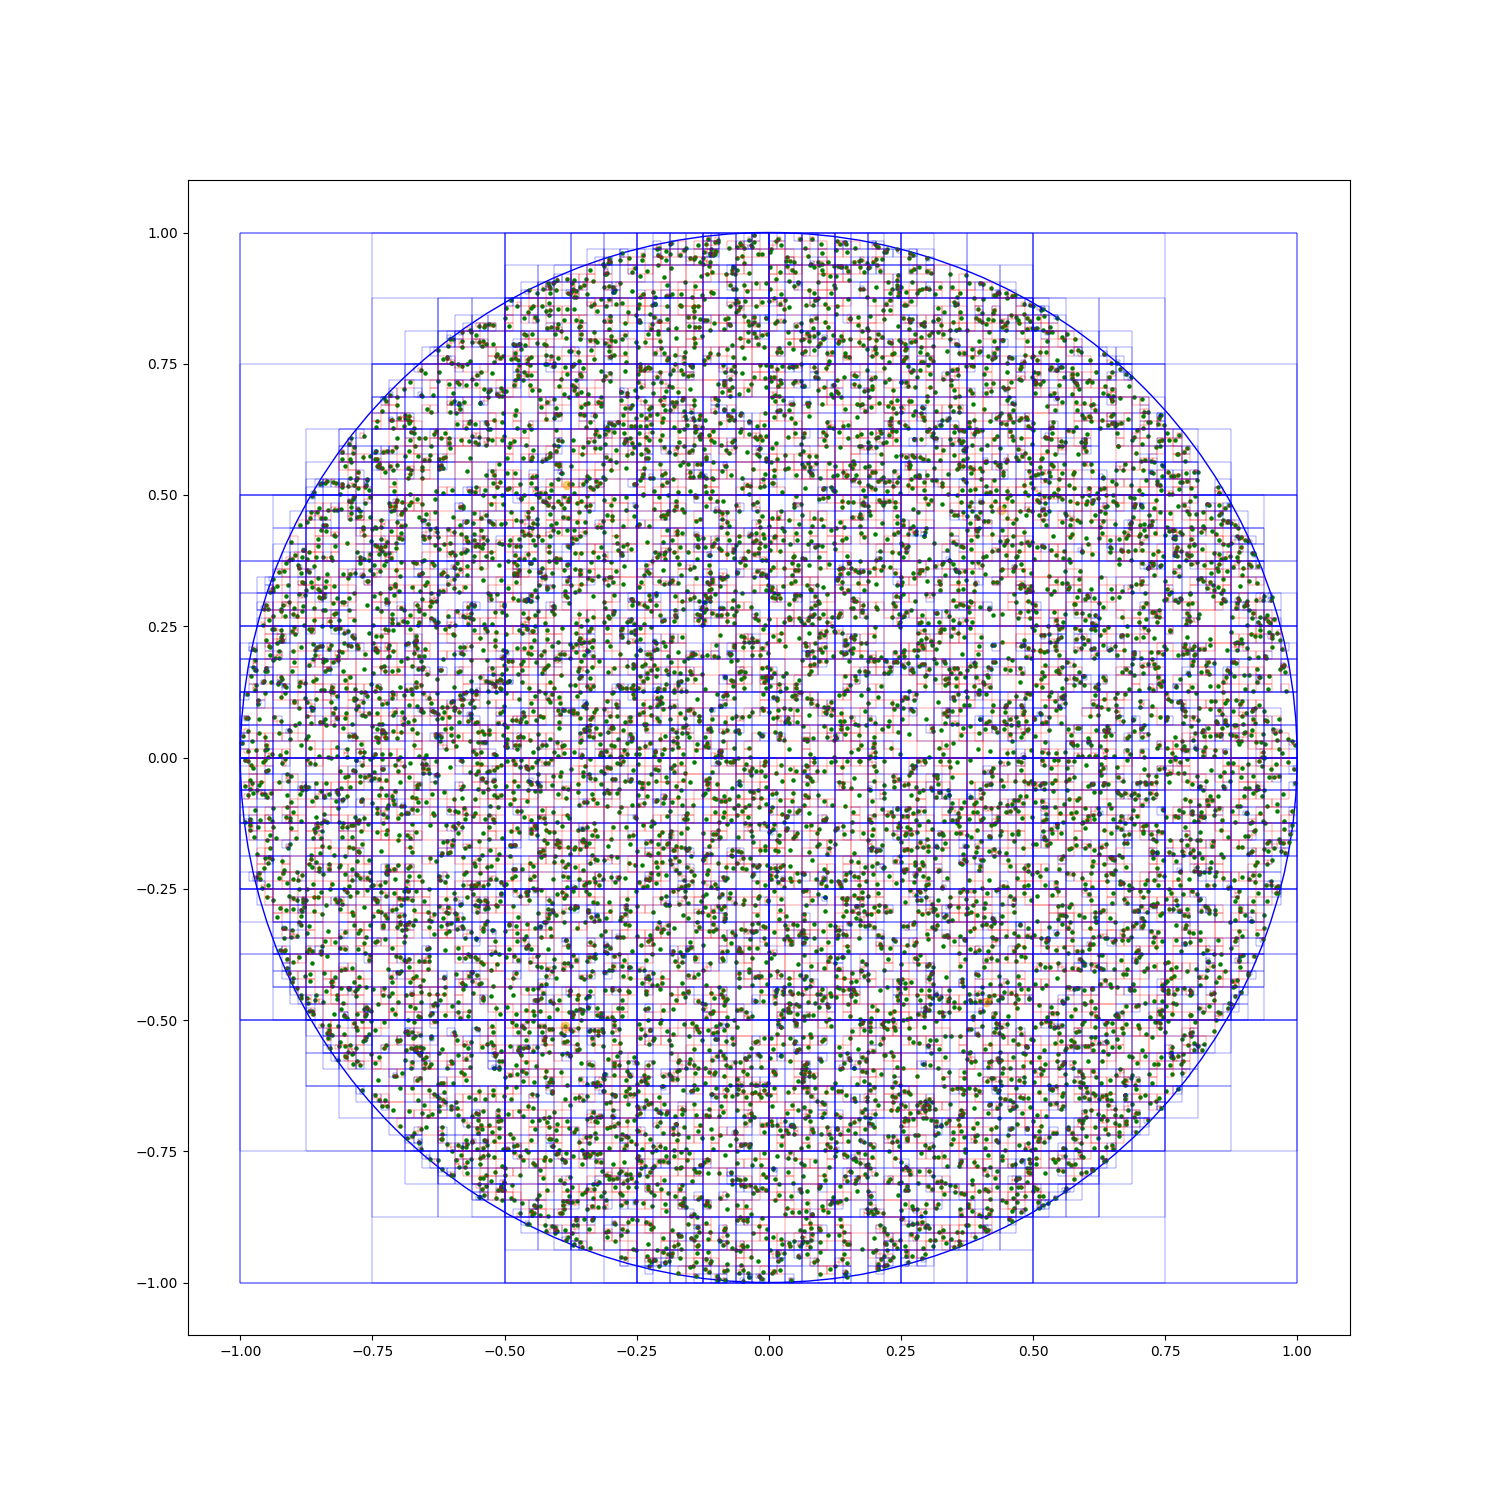
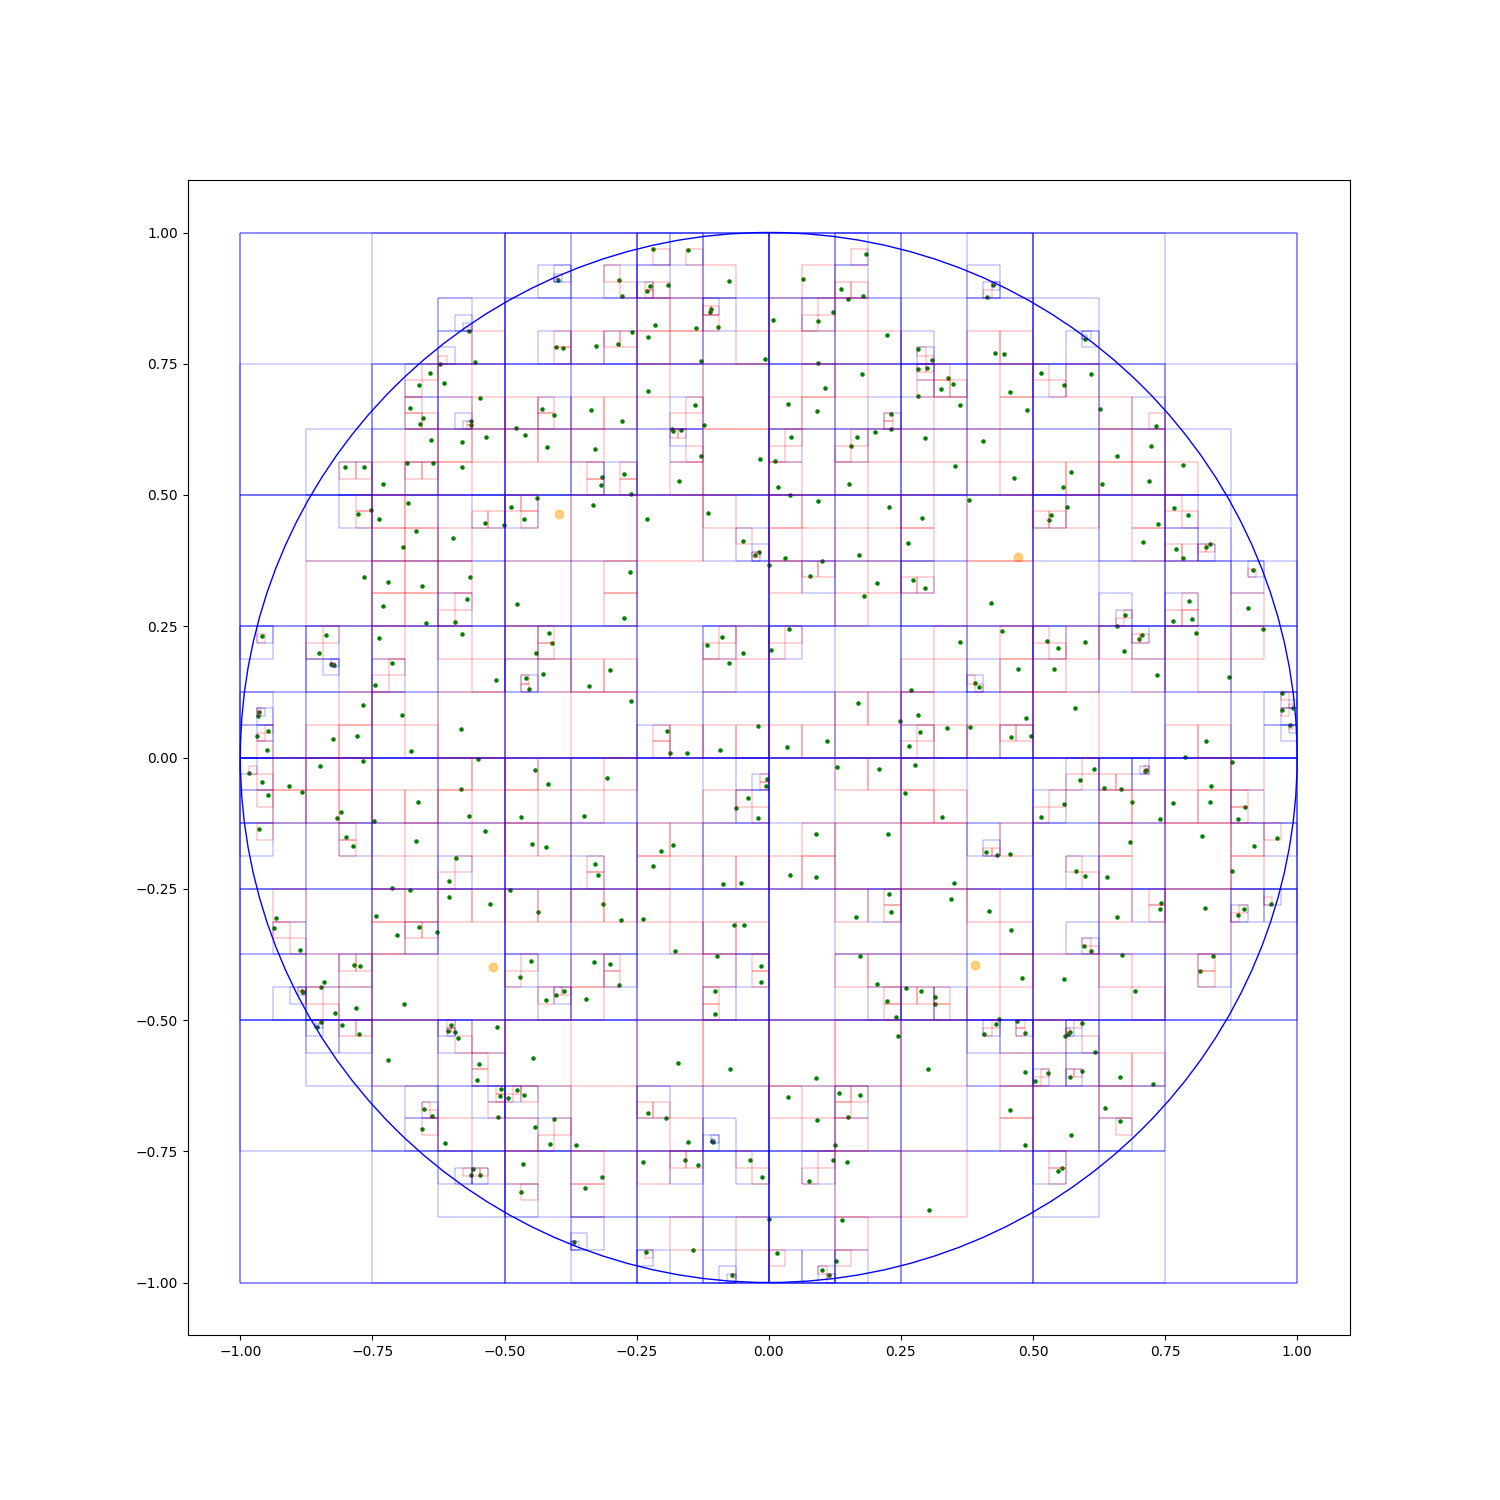
DFS step of Barnes-Hut approximation

Changed region(s): [[0.1533, 0.1533, 0.8893, 0.8587]]

diff --git a/infinity_quad_tree.hpp b/infinity_quad_tree.hpp
@@ -2,6 +2,7 @@
 #include "cell.hpp"
 #include "point.hpp"
 #include "math_utils.hpp"
+#include "centre_of_mass.hpp"
 #include <stddef.h>
 #include <vector>
 #include <algorithm>
@@ -79,6 +80,26 @@ private:
         double d3 = max_bounds.x*max_bounds.x + max_bounds.y*max_bounds.y;
         double d4 = min_bounds.x*min_bounds.x + max_bounds.y*max_bounds.y;
         return d1 < 1.0 && d2 < 1.0 && d3 < 1.0 && d4 < 1.0;
+    }
+
+    void approximate_centers_of_mass(const Point& target, size_t cell_idx, double theta_sq, std::vector<CenterOfMass>& combined_results) {
+        auto& current_cell = _nodes[cell_idx];
+
+        double distance_to_target = target.distance_to_point_poincare(_nodes[cell_idx].barycenter);
+        double distance_squared = distance_to_target * distance_to_target;
+
+        // Check the stop condition
+        if (_nodes[cell_idx].is_leaf || (current_cell.max_distance_within_squared / distance_squared < theta_sq)) {
+            combined_results.emplace_back(CenterOfMass{_nodes[cell_idx].barycenter, _nodes[cell_idx].cumulative_size, distance_squared});
+            return;
+        }
+        
+        // If stop condition wasn't triggered - go deeper and combine results
+        for(int i = 0; i < 4; ++i) {
+            if (_nodes[cell_idx].children_idx[i] != 0) {
+                approximate_centers_of_mass(target, _nodes[cell_idx].children_idx[i], theta_sq, combined_results);
+            }
+        }
     }
 
     std::vector<Cell> _nodes;

diff --git a/cell.hpp b/cell.hpp
@@ -15,11 +15,12 @@ struct Cell{
     Point min_bounds;
     Point max_bounds;
 
+    double max_distance_within_squared;
+
     Point barycenter;
     double lorentz_factor;
 
-    Cell(
-        size_t parent_idx_, size_t depth_, const Point& min_bounds_, const Point& max_bounds_) : 
+    Cell(size_t parent_idx_, size_t depth_, const Point& min_bounds_, const Point& max_bounds_) : 
         parent_idx(parent_idx_), 
         children_idx{{0, 0, 0, 0}}, 
         is_leaf(false), 
@@ -29,6 +30,21 @@ struct Cell{
         min_bounds{min_bounds_}, 
         max_bounds{max_bounds_},
         barycenter{(min_bounds_ + max_bounds_) / 2},
-        lorentz_factor(1)
-    {};
+        lorentz_factor(1) 
+        /*
+        a               max_bounds
+        min_bounds      b
+        
+        */
+
+        {
+            Point a = Point{min_bounds.x, max_bounds.y};
+            Point b = Point{min_bounds.y, max_bounds.x};
+            max_distance_within_squared = fmax(
+                fmax(a.distance_to_point_poincare(b), min_bounds.distance_to_point_poincare(max_bounds)),
+                fmax(fmax(a.distance_to_point_poincare(min_bounds), min_bounds.distance_to_point_poincare(b)),
+                fmax(a.distance_to_point_poincare(max_bounds), max_bounds.distance_to_point_poincare(b)))
+                );
+            max_distance_within_squared *= max_distance_within_squared;
+        }
 };

diff --git a/point.hpp b/point.hpp
@@ -5,15 +5,15 @@ struct Point {
     double x;
     double y;
 
-    double sq_norm() {
+    inline double sq_norm() const {
         return x * x + y * y;
     }
 
-    Point operator*(double a) {
+    Point operator*(double a) const {
         return Point{x * a, y * a};
     }
 
-    Point operator/(double a) {
+    Point operator/(double a) const {
         return Point{x / a, y / a};
     }
 
@@ -21,14 +21,26 @@ struct Point {
         return Point{x + b.x, y + b.y};
     }
 
-    Point to_klein() {
+    Point to_klein() const {
         double norm = sq_norm();
         return Point{hyperbolic_utils::poincare_to_klein(x, norm), hyperbolic_utils::poincare_to_klein(y, norm)};
     }
 
-    Point to_poincare() {
+    Point to_poincare() const {
         double norm = sq_norm();
         return Point{hyperbolic_utils::klein_to_poincare(x, norm), hyperbolic_utils::klein_to_poincare(y, norm)};
+    }
+
+    double distance_to_point_poincare(Point b) const {
+        if (std::fabs(x - b.x) <= M_UTILS_EPSILON && std::fabs(y - b.y) <= M_UTILS_EPSILON)
+            return 0;
+
+        double uv2 = ((x - b.x) * (x - b.x)) + ((y - b.y) * (y - b.y));
+        double u_sq = sq_norm();
+        double v_sq = b.sq_norm();
+        double result = std::acosh( 1. + 2. * uv2 / ( (1. - u_sq) * (1. - v_sq)));
+
+        return result;
     }
 };
 

diff --git a/math_utils.hpp b/math_utils.hpp
@@ -1,20 +1,23 @@
 #pragma once
 #include <cmath>
 
+#define M_UTILS_EPSILON 1e-5
+
 namespace hyperbolic_utils {
-    double sq_norm(const double& a, const double& b) {
+
+    inline double sq_norm(const double& a, const double& b) {
         return a * a + b * b;
     }
 
-    double poincare_to_klein(const double& a, const double& sq_n) {
+    inline double poincare_to_klein(const double& a, const double& sq_n) {
         return 2 * a / (1 + sq_n);
     }
 
-    double klein_to_poincare(const double& a, const double& sq_n) {
+    inline double klein_to_poincare(const double& a, const double& sq_n) {
         return a / (1 + std::sqrt(1 - sq_n));
     }
 
-    double lorentz_factor(const double& sq_n) {
+    inline double lorentz_factor(const double& sq_n) {
         return 1 / std::sqrt(1 - sq_n);
     }
 }

diff --git a/centre_of_mass.hpp b/centre_of_mass.hpp
@@ -1,0 +1,8 @@
+#pragma once
+#include "point.hpp"
+
+struct CenterOfMass {
+    Point position;
+    size_t number_of_accumulated_points;
+    double distance_to_target;
+};

diff --git a/code.py b/code.py
@@ -7,7 +7,7 @@ import numpy as np
 
 
 # generate points
-n = 10000
+n = 500
 
 points = []
 for i in range(n):
